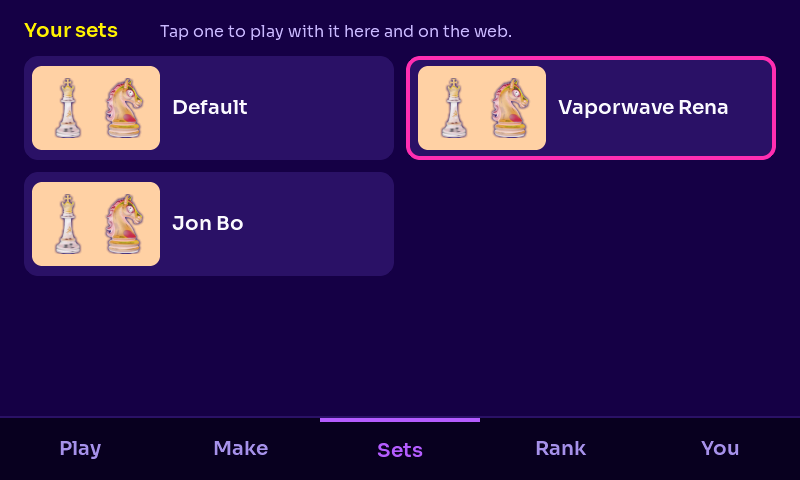
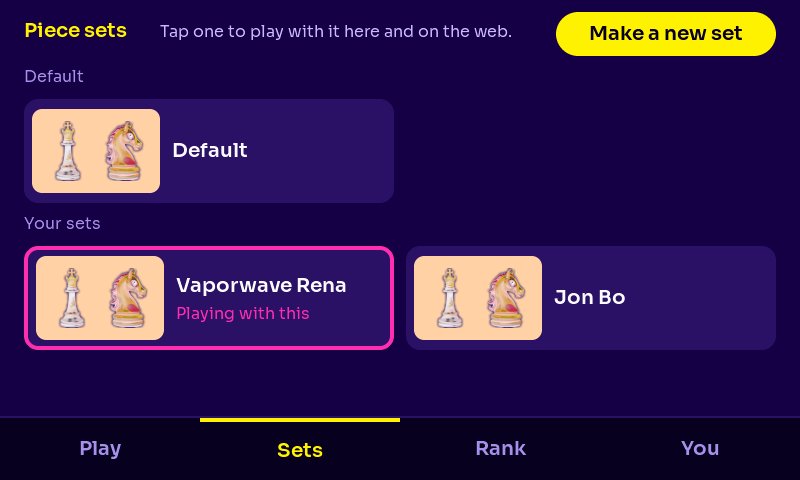
firmware 0.11.8

diff --git a/firmware/main/ui_screens.c b/firmware/main/ui_screens.c
@@ -463,7 +463,7 @@ lv_obj_t *eg_pair_create(lv_obj_t *parent)
     lv_obj_center(p->qr);
 
     /* right: instructions and the typed fallback */
-    lv_obj_t *t = label(s, &eg_bungee_28, EG_YELLOW, "PAIR THIS BOARD");
+    lv_obj_t *t = label(s, &eg_bungee_28, EG_YELLOW, "PAIR THIS CONSOLE");
     lv_obj_set_pos(t, 410, 90);
     lv_obj_t *a1 = label(s, &eg_sora_20, EG_FG, "Scan with your phone.");
     lv_obj_set_pos(a1, 410, 150);
@@ -584,8 +584,8 @@ static void tab_cb(lv_event_t *e)
 #define NAV_Y 416
 static void add_nav(lv_obj_t *s, int active)
 {
-    static const char *names[5] = {"Play", "Make", "Sets", "Rank", "You"};
-    const lv_color_t accents[5] = {EG_CYAN, EG_YELLOW, lv_color_hex(0xB45CFF), EG_MINT, EG_PINK};
+    static const char *names[4] = {"Play", "Sets", "Rank", "You"};
+    const lv_color_t accents[4] = {EG_CYAN, EG_YELLOW, EG_MINT, EG_PINK};
     lv_obj_t *bar = lv_obj_create(s);
     lv_obj_remove_flag(bar, LV_OBJ_FLAG_SCROLLABLE);
     lv_obj_set_size(bar, 800, 480 - NAV_Y);
@@ -596,12 +596,12 @@ static void add_nav(lv_obj_t *s, int active)
     lv_obj_set_style_border_color(bar, EG_SURFACE, 0);
     lv_obj_set_style_radius(bar, 0, 0);
     lv_obj_set_style_pad_all(bar, 0, 0);
-    for (int i = 0; i < 5; i++) {
+    for (int i = 0; i < 4; i++) {
         lv_obj_t *b = lv_obj_create(bar);
         lv_obj_remove_flag(b, LV_OBJ_FLAG_SCROLLABLE);
         lv_obj_add_flag(b, LV_OBJ_FLAG_CLICKABLE);
-        lv_obj_set_size(b, 160, 480 - NAV_Y - 2);
-        lv_obj_set_pos(b, i * 160, 0);
+        lv_obj_set_size(b, 200, 480 - NAV_Y - 2);
+        lv_obj_set_pos(b, i * 200, 0);
         lv_obj_set_style_bg_opa(b, LV_OPA_TRANSP, 0);
         lv_obj_set_style_border_width(b, i == active ? 4 : 0, 0);
         lv_obj_set_style_border_side(b, LV_BORDER_SIDE_TOP, 0);
@@ -1154,7 +1154,7 @@ void eg_find_confirm(lv_obj_t *screen, int index)
     f->sent = false;
     lv_label_set_text_fmt(f->who, "Challenge %s?", f->users[index].name[0] ? f->users[index].name : "this player");
     lv_obj_remove_flag(f->send, LV_OBJ_FLAG_HIDDEN);
-    lv_label_set_text(f->status, "They get it in their games on endgam.es, the app, or their board.");
+    lv_label_set_text(f->status, "They get it in their games on endgam.es, the app, or their console.");
     lv_obj_remove_flag(f->panel, LV_OBJ_FLAG_HIDDEN);
 }
 
@@ -1167,100 +1167,153 @@ void eg_find_set_status(lv_obj_t *screen, const char *msg, bool sent)
     else lv_obj_remove_flag(f->send, LV_OBJ_FLAG_HIDDEN);
 }
 
-/* ---------- Sets tab ---------- */
+/* ---------- Sets tab (pick Default or one of yours; making a new one opens the QR screen) ---------- */
 
-typedef struct { void (*pick)(const char *); lv_obj_t *list; char ids[EG_HOME_MAX_SETS][48]; } sets_t;
+typedef struct { void (*pick)(const char *); void (*make)(void); lv_obj_t *list; char ids[EG_HOME_MAX_SETS][48]; } sets_t;
 
 static void sets_pick_cb(lv_event_t *e)
 {
     sets_t *t = lv_obj_get_user_data(lv_obj_get_screen(lv_event_get_target(e)));
     intptr_t i = (intptr_t)lv_event_get_user_data(e);
     uint32_t n = lv_obj_get_child_count(t->list);
-    for (uint32_t k = 0; k < n; k++) lv_obj_set_style_border_width(lv_obj_get_child(t->list, k), (intptr_t)k == i ? 4 : 0, 0);
+    for (uint32_t k = 0; k < n; k++) {
+        lv_obj_t *c = lv_obj_get_child(t->list, k);
+        if (lv_obj_get_user_data(c) == t) lv_obj_set_style_border_width(c, c == lv_event_get_current_target(e) ? 4 : 0, 0);
+    }
     if (t->pick) t->pick(t->ids[i]);
 }
 
-lv_obj_t *eg_sets_create(lv_obj_t *parent, void (*on_pick)(const char *))
+static void sets_make_cb(lv_event_t *e) { sets_t *t = lv_event_get_user_data(e); if (t->make) t->make(); }
+
+static lv_obj_t *sets_heading(lv_obj_t *list, const char *text)
+{
+    lv_obj_t *l = label(list, &eg_sora_16, EG_FG_MIST, text);
+    lv_obj_set_width(l, LV_PCT(100));
+    return l;
+}
+
+lv_obj_t *eg_sets_create(lv_obj_t *parent, void (*on_pick)(const char *), void (*on_make)(void))
 {
     lv_obj_t *s = base(parent);
     sets_t *t = lv_malloc(sizeof *t);
     memset(t, 0, sizeof *t);
     t->pick = on_pick;
+    t->make = on_make;
     lv_obj_set_user_data(s, t);
-    lv_obj_set_pos(label(s, &eg_sora_20_bold, EG_YELLOW, "Your sets"), 24, 20);
+    lv_obj_set_pos(label(s, &eg_sora_20_bold, EG_YELLOW, "Piece sets"), 24, 20);
     lv_obj_set_pos(label(s, &eg_sora_16, EG_FG_HAZE, "Tap one to play with it here and on the web."), 160, 23);
+    lv_obj_t *mk = pill(s, "Make a new set", EG_YELLOW, 556, 12, 220, 44);
+    lv_obj_set_style_text_color(lv_obj_get_child(mk, 0), EG_BG_VOID, 0);
+    lv_obj_add_event_cb(mk, sets_make_cb, LV_EVENT_CLICKED, t);
     t->list = lv_obj_create(s);
-    lv_obj_set_size(t->list, 752, 352);
-    lv_obj_set_pos(t->list, 24, 56);
+    lv_obj_set_size(t->list, 752, 340);
+    lv_obj_set_pos(t->list, 24, 68);
     lv_obj_set_flex_flow(t->list, LV_FLEX_FLOW_ROW_WRAP);
     lv_obj_set_style_bg_opa(t->list, LV_OPA_TRANSP, 0);
     lv_obj_set_style_border_width(t->list, 0, 0);
     lv_obj_set_style_pad_all(t->list, 0, 0);
     lv_obj_set_style_pad_gap(t->list, 12, 0);
-    add_nav(s, 2);
+    add_nav(s, 1);
     return s;
+}
+
+static void set_tile(sets_t *t, const eg_set_t *st, const char *name, bool active, int i)
+{
+    snprintf(t->ids[i], sizeof t->ids[i], "%s", st->id);
+    lv_obj_t *b = lv_button_create(t->list);
+    lv_obj_set_user_data(b, t);
+    lv_obj_set_size(b, 370, 104);
+    lv_obj_set_style_bg_color(b, EG_SURFACE, 0);
+    lv_obj_set_style_radius(b, 14, 0);
+    lv_obj_set_style_shadow_width(b, 0, 0);
+    lv_obj_set_style_pad_all(b, 8, 0);
+    lv_obj_set_style_border_color(b, EG_PINK, 0);
+    lv_obj_set_style_border_width(b, active ? 4 : 0, 0);
+    /* preview tile: king and knight on a light square */
+    lv_obj_t *tile = lv_obj_create(b);
+    lv_obj_remove_flag(tile, LV_OBJ_FLAG_SCROLLABLE | LV_OBJ_FLAG_CLICKABLE);
+    lv_obj_set_size(tile, 128, 84);
+    lv_obj_align(tile, LV_ALIGN_LEFT_MID, 0, 0);
+    lv_obj_set_style_bg_color(tile, EG_BOARD_LIGHT, 0);
+    lv_obj_set_style_border_width(tile, 0, 0);
+    lv_obj_set_style_radius(tile, 10, 0);
+    lv_obj_set_style_pad_all(tile, 0, 0);
+    const void *k = eg_thumb_find(st->preview_k), *n = eg_thumb_find(st->preview_n);
+    if (k) { lv_obj_t *im = lv_image_create(tile); lv_image_set_src(im, k); lv_obj_align(im, LV_ALIGN_LEFT_MID, 6, 0); }
+    if (n) { lv_obj_t *im = lv_image_create(tile); lv_image_set_src(im, n); lv_obj_align(im, LV_ALIGN_RIGHT_MID, -6, 0); }
+    if (!k && !n) { lv_obj_t *w = label(tile, &eg_sora_16, EG_BG_VOID, "Loading..."); lv_obj_center(w); }
+    lv_obj_t *l = label(b, &eg_sora_20_bold, EG_FG, name);
+    lv_label_set_long_mode(l, LV_LABEL_LONG_DOT);
+    lv_obj_set_width(l, 210);
+    lv_obj_align(l, LV_ALIGN_LEFT_MID, 140, active ? -12 : 0);
+    if (active) { lv_obj_t *a = label(b, &eg_sora_16, EG_PINK, "Playing with this"); lv_obj_align(a, LV_ALIGN_LEFT_MID, 140, 16); }
+    lv_obj_add_event_cb(b, sets_pick_cb, LV_EVENT_CLICKED, (void *)(intptr_t)i);
 }
 
 void eg_sets_set(lv_obj_t *screen, const eg_home_t *h)
 {
     sets_t *t = lv_obj_get_user_data(screen);
     lv_obj_clean(t->list);
+    bool active_default = !h->active_set[0] || strcmp(h->active_set, "default") == 0;
+    /* Default first, then the owner's own sets */
+    int mine = 0;
+    for (int i = 0; i < h->n_sets; i++)
+        if (strcmp(h->sets[i].id, "default") == 0) set_tile(t, &h->sets[i], "Default", active_default, i);
+    if (!h->n_sets) {                          /* home not loaded yet: still offer the default */
+        static const eg_set_t def = {.id = "default"};
+        set_tile(t, &def, "Default", active_default, 0);
+    }
+    sets_heading(t->list, "Your sets");
     for (int i = 0; i < h->n_sets; i++) {
-        snprintf(t->ids[i], sizeof t->ids[i], "%s", h->sets[i].id);
+        if (strcmp(h->sets[i].id, "default") == 0) continue;
+        set_tile(t, &h->sets[i], h->sets[i].name[0] ? h->sets[i].name : "Untitled set", strcmp(h->sets[i].id, h->active_set) == 0, i);
+        mine++;
+    }
+    if (!mine) {
         lv_obj_t *b = lv_button_create(t->list);
         lv_obj_set_size(b, 370, 104);
-        lv_obj_set_style_bg_color(b, EG_SURFACE, 0);
+        lv_obj_set_style_bg_opa(b, LV_OPA_TRANSP, 0);
+        lv_obj_set_style_border_width(b, 2, 0);
+        lv_obj_set_style_border_color(b, EG_YELLOW, 0);
         lv_obj_set_style_radius(b, 14, 0);
         lv_obj_set_style_shadow_width(b, 0, 0);
-        lv_obj_set_style_pad_all(b, 8, 0);
-        lv_obj_set_style_border_color(b, EG_PINK, 0);
-        lv_obj_set_style_border_width(b, strcmp(h->sets[i].id, h->active_set) == 0 ? 4 : 0, 0);
-        /* preview tile: king and knight on a light square */
-        lv_obj_t *tile = lv_obj_create(b);
-        lv_obj_remove_flag(tile, LV_OBJ_FLAG_SCROLLABLE | LV_OBJ_FLAG_CLICKABLE);
-        lv_obj_set_size(tile, 128, 84);
-        lv_obj_align(tile, LV_ALIGN_LEFT_MID, 0, 0);
-        lv_obj_set_style_bg_color(tile, EG_BOARD_LIGHT, 0);
-        lv_obj_set_style_border_width(tile, 0, 0);
-        lv_obj_set_style_radius(tile, 10, 0);
-        lv_obj_set_style_pad_all(tile, 0, 0);
-        const void *k = eg_thumb_find(h->sets[i].preview_k), *n = eg_thumb_find(h->sets[i].preview_n);
-        if (k) { lv_obj_t *im = lv_image_create(tile); lv_image_set_src(im, k); lv_obj_align(im, LV_ALIGN_LEFT_MID, 6, 0); }
-        if (n) { lv_obj_t *im = lv_image_create(tile); lv_image_set_src(im, n); lv_obj_align(im, LV_ALIGN_RIGHT_MID, -6, 0); }
-        lv_obj_t *l = label(b, &eg_sora_20_bold, EG_FG, h->sets[i].name[0] ? h->sets[i].name : "Untitled set");
-        lv_label_set_long_mode(l, LV_LABEL_LONG_DOT);
-        lv_obj_set_width(l, 210);
-        lv_obj_align(l, LV_ALIGN_LEFT_MID, 140, 0);
-        lv_obj_add_event_cb(b, sets_pick_cb, LV_EVENT_CLICKED, (void *)(intptr_t)i);
+        lv_obj_t *l = label(b, &eg_sora_16, EG_YELLOW, "You haven't made one yet.\nTap to make a set from a photo.");
+        lv_obj_center(l);
+        lv_obj_add_event_cb(b, sets_make_cb, LV_EVENT_CLICKED, t);
     }
 }
 
-/* ---------- Make tab ---------- */
+/* ---------- Make a set (opened from Sets; QR to the web maker) ---------- */
 
 #define EG_MAKE_URL "https://endgam.es/make"
 
-lv_obj_t *eg_make_create(lv_obj_t *parent)
+typedef struct { void (*back)(void); } make_t;
+static void make_back_cb(lv_event_t *e) { make_t *m = lv_event_get_user_data(e); if (m->back) m->back(); }
+
+lv_obj_t *eg_make_create(lv_obj_t *parent, void (*on_back)(void))
 {
     lv_obj_t *s = base(parent);
+    make_t *m = lv_malloc(sizeof *m);
+    m->back = on_back;
     lv_obj_t *tile = lv_obj_create(s);
     lv_obj_remove_flag(tile, LV_OBJ_FLAG_SCROLLABLE);
-    lv_obj_set_size(tile, 300, 300);
-    lv_obj_set_pos(tile, 60, 56);
+    lv_obj_set_size(tile, 340, 340);
+    lv_obj_set_pos(tile, 60, 70);
     lv_obj_set_style_bg_color(tile, lv_color_white(), 0);
     lv_obj_set_style_border_width(tile, 0, 0);
     lv_obj_set_style_radius(tile, 16, 0);
     lv_obj_set_style_pad_all(tile, 0, 0);
     lv_obj_t *qr = lv_qrcode_create(tile);
-    lv_qrcode_set_size(qr, 260);
+    lv_qrcode_set_size(qr, 300);
     lv_qrcode_set_dark_color(qr, EG_BG_VOID);
     lv_qrcode_set_light_color(qr, lv_color_white());
     lv_qrcode_update(qr, EG_MAKE_URL, strlen(EG_MAKE_URL));
     lv_obj_center(qr);
-    lv_obj_set_pos(label(s, &eg_bungee_28, EG_YELLOW, "MAKE A SET"), 400, 90);
-    lv_obj_set_pos(label(s, &eg_sora_20, EG_FG, "Scan to make one on your phone."), 400, 146);
+    lv_obj_set_pos(label(s, &eg_bungee_28, EG_YELLOW, "MAKE A SET"), 440, 110);
+    lv_obj_set_pos(label(s, &eg_sora_20, EG_FG, "Scan to make one\non your phone."), 440, 166);
     lv_obj_t *t = label(s, &eg_sora_16, EG_FG_HAZE, "Pick a photo. Its colors and mood\nbecome a full piece set.\nIt shows up in Sets when it's ready.");
-    lv_obj_set_pos(t, 400, 190);
-    add_nav(s, 1);
+    lv_obj_set_pos(t, 440, 240);
+    back_button(s, make_back_cb, m);
     return s;
 }
 
@@ -1287,7 +1340,7 @@ lv_obj_t *eg_rank_create(lv_obj_t *parent)
     lv_obj_set_style_pad_row(r->list, 6, 0);
     r->status = label(s, &eg_sora_16, EG_FG_MIST, "Loading...");
     lv_obj_set_pos(r->status, 24, 64);
-    add_nav(s, 3);
+    add_nav(s, 2);
     return s;
 }
 
@@ -1350,14 +1403,14 @@ lv_obj_t *eg_you_create(lv_obj_t *parent, void (*on_forget)(void), const char *v
 
     lv_obj_t *wb = pill(s, "Change Wi-Fi", EG_SURFACE, 40, 150, 260, 60);
     lv_obj_add_event_cb(wb, wifi_btn_cb, LV_EVENT_CLICKED, NULL);
-    lv_obj_t *fb = pill(s, "Forget this board", EG_SURFACE, 40, 226, 260, 60);
+    lv_obj_t *fb = pill(s, "Forget this console", EG_SURFACE, 40, 226, 260, 60);
     lv_obj_set_style_text_color(lv_obj_get_child(fb, 0), EG_PINK_SOFT, 0);
     lv_obj_add_event_cb(fb, you_forget_cb, LV_EVENT_CLICKED, y);
 
     lv_obj_t *v = label(s, &eg_sora_16, EG_FG_MIST, "");
     lv_label_set_text_fmt(v, "Firmware %s (auto update)", version);
     lv_obj_set_pos(v, 40, 330);
-    add_nav(s, 4);
+    add_nav(s, 3);
     return s;
 }
 

diff --git a/firmware/main/main.c b/firmware/main/main.c
@@ -118,7 +118,7 @@ static void on_menu_wifi(void)
  * the network task picks up within 250 ms. */
 
 static struct {
-    volatile bool home, ai, challenge, open, set, resign, rank, thumbs;
+    volatile bool home, ai, challenge, open, set, resign, rank, thumbs, sets;
     volatile bool qm_join, qm_cancel, search, chal_send, respond, respond_accept;
     char difficulty[16], color[8], game_id[40], set_id[48];
     char query[32], opp_id[40], opp_name[33], first[10], chal_id[40];
@@ -176,15 +176,17 @@ static void on_respond(const char *id, bool accept)
 
 static void on_tab(int tab)
 {
-    lv_obj_t *screens[5] = {scr_home, scr_make, scr_sets, scr_rank, scr_you};
-    if (tab < 0 || tab > 4) return;
-    if (tab == 2) { eg_sets_set(scr_sets, &home); req.thumbs = true; }
-    if (tab == 3) req.rank = true;
-    if (tab == 4) eg_you_set(scr_you, &home);
+    lv_obj_t *screens[4] = {scr_home, scr_sets, scr_rank, scr_you};
+    if (tab < 0 || tab > 3) return;
+    if (tab == 1) { eg_sets_set(scr_sets, &home); req.sets = true; }
+    if (tab == 2) req.rank = true;
+    if (tab == 3) eg_you_set(scr_you, &home);
     if (tab == 0) req.home = true;
     behind = screens[tab];                 /* Wi-Fi's Back returns here */
     ui_load(screens[tab]);
 }
+static void on_make(void) { ui_load(scr_make); }
+static void on_make_back(void) { req.sets = true; behind = scr_sets; ui_load(scr_sets); }   /* a new set may be ready */
 static void on_home_open(const char *id) { snprintf(req.game_id, sizeof req.game_id, "%s", id); req.open = true; }
 static void on_sub_back(void) { req.search = false; req.home = true; behind = scr_home; ui_load(scr_home); }
 static void on_ai_start(const char *difficulty, const char *color)
@@ -513,6 +515,7 @@ static void net_task(void *arg)
                 if (r == EG_OK) {
                     snprintf(home.active_set, sizeof home.active_set, "%s", req.set_id);
                     eg_pieces_load(token, &changed);      /* new set's pieces for every board */
+                    req.thumbs = true;                    /* redraw Sets with the new pick marked */
                 }
             }
             if (req.rank) {
@@ -522,6 +525,13 @@ static void net_task(void *arg)
                 eg_rank_set(scr_rank, &rank, r == EG_OK ? NULL : "Couldn't load the leaderboard.");
                 lvgl_port_unlock();
             }
+            if (req.sets) {                      /* Sets opened: fetch the list fresh (a set made on the phone shows up) */
+                req.sets = false;
+                if (eg_api_home(token, &home) == EG_OK) {
+                    lvgl_port_lock(0); eg_home_set(scr_home, &home); eg_you_set(scr_you, &home); lvgl_port_unlock();
+                }
+                req.thumbs = true;
+            }
             if (req.thumbs) {
                 req.thumbs = false;
                 bool any = false;
@@ -529,7 +539,8 @@ static void net_task(void *arg)
                     if (!eg_thumb_find(home.sets[i].preview_k) && eg_thumb_load(home.sets[i].preview_k)) any = true;
                     if (!eg_thumb_find(home.sets[i].preview_n) && eg_thumb_load(home.sets[i].preview_n)) any = true;
                 }
-                if (any) { lvgl_port_lock(0); eg_sets_set(scr_sets, &home); lvgl_port_unlock(); }
+                (void)any;                       /* redraw anyway: home may have brought new sets */
+                lvgl_port_lock(0); eg_sets_set(scr_sets, &home); lvgl_port_unlock();
             }
             if (req.resign && view == V_GAME && have_game) {
                 req.resign = false;
@@ -625,8 +636,8 @@ void app_main(void)
     eg_find_cb_t fcb = {.on_query = on_find_query, .on_send = on_find_send, .on_link = on_home_challenge, .on_back = on_sub_back};
     scr_find = eg_find_create(NULL, &fcb);
     eg_challenge_set_find(scr_chal, on_home_find);
-    scr_sets = eg_sets_create(NULL, on_pick_set);
-    scr_make = eg_make_create(NULL);
+    scr_sets = eg_sets_create(NULL, on_pick_set, on_make);
+    scr_make = eg_make_create(NULL, on_make_back);
     scr_rank = eg_rank_create(NULL);
     scr_you = eg_you_create(NULL, on_forget, eg_ota_version());
     eg_game_cb_t cb = {.on_move = on_move, .on_resign = on_resign, .on_menu_home = on_menu_home};

diff --git a/firmware/tools/preview/preview.c b/firmware/tools/preview/preview.c
@@ -78,7 +78,7 @@ int main(int argc, char **argv)
         eg_ap_t aps[] = {{"Renas Wifi", -48, false}, {"NETGEAR-5G", -61, false}, {"xfinitywifi", -70, true}, {"Coffee Shop Guest Wifi", -82, false}};
         eg_wifi_set_networks(w, aps, 4);
         if (argc > 3) lv_dropdown_open(lv_obj_get_child(w, 1));
-    } else if (strcmp(which, "idle") == 0 || strcmp(which, "home") == 0 || strcmp(which, "sets") == 0) {
+    } else if (strcmp(which, "idle") == 0 || strcmp(which, "home") == 0 || strncmp(which, "sets", 4) == 0) {
         static eg_home_t h = {.name = "deltajuliet", .elo = 1240, .n_games = 3, .active_set = "s1", .n_sets = 3,
             .n_incoming = 1, .incoming = {{"c1", "queenbee", 1820}},
             .games = {{"g1", "Stockfish", true, "intermediate", 'w', true, 14},
@@ -86,7 +86,8 @@ int main(int argc, char **argv)
                       {"g3", "Stockfish", true, "expert", 'b', false, 3}},
             .sets = {{"default", "Default"}, {"s1", "Vaporwave Rena"}, {"s2", "Jon Bo"}}};
         for (int i = 0; i < 3; i++) { strcpy(h.sets[i].preview_k, "wk"); strcpy(h.sets[i].preview_n, "wn"); }
-        if (strcmp(which, "sets") == 0) eg_sets_set(eg_sets_create(lv_screen_active(), NULL), &h);
+        if (strcmp(which, "sets-empty") == 0) { h.n_sets = 1; strcpy(h.active_set, "default"); }
+        if (strncmp(which, "sets", 4) == 0) eg_sets_set(eg_sets_create(lv_screen_active(), NULL, NULL), &h);
         else { eg_home_cb_t cb = {0}; eg_home_set(eg_home_create(lv_screen_active(), &cb), &h); }
     } else if (strcmp(which, "quick") == 0) {
         eg_qm_set(eg_qm_create(lv_screen_active(), NULL, NULL), "Looking for an opponent... 0:42", true);
@@ -99,7 +100,7 @@ int main(int argc, char **argv)
         eg_find_set_results(f, u, 3, NULL);
         if (strcmp(which, "find-confirm") == 0) eg_find_confirm(f, 0);
     } else if (strcmp(which, "make") == 0) {
-        eg_make_create(lv_screen_active());
+        eg_make_create(lv_screen_active(), NULL);
     } else if (strcmp(which, "rank") == 0) {
         static eg_rank_t r = {.n = 6, .you_rank = 4, .you_elo = 1240, .rows = {
             {1, "queenbee", 1820, false}, {2, "magnus_fan", 1655, false}, {3, "knightowl", 1490, false},

diff --git a/firmware/main/ui_screens.h b/firmware/main/ui_screens.h
@@ -70,9 +70,9 @@ void eg_find_confirm(lv_obj_t *screen, int index);                         /* op
 /* Tabs (same as the website): 0 Play, 1 Make, 2 Sets, 3 Rank, 4 You. */
 void eg_screens_set_tab_handler(void (*on_tab)(int tab));
 
-lv_obj_t *eg_sets_create(lv_obj_t *parent, void (*on_pick)(const char *set_id));
+lv_obj_t *eg_sets_create(lv_obj_t *parent, void (*on_pick)(const char *set_id), void (*on_make)(void));
 void eg_sets_set(lv_obj_t *screen, const eg_home_t *h);
-lv_obj_t *eg_make_create(lv_obj_t *parent);
+lv_obj_t *eg_make_create(lv_obj_t *parent, void (*on_back)(void));
 lv_obj_t *eg_rank_create(lv_obj_t *parent);
 void eg_rank_set(lv_obj_t *screen, const eg_rank_t *d, const char *error);   /* error non-NULL shows it instead */
 lv_obj_t *eg_you_create(lv_obj_t *parent, void (*on_forget)(void), const char *version);
